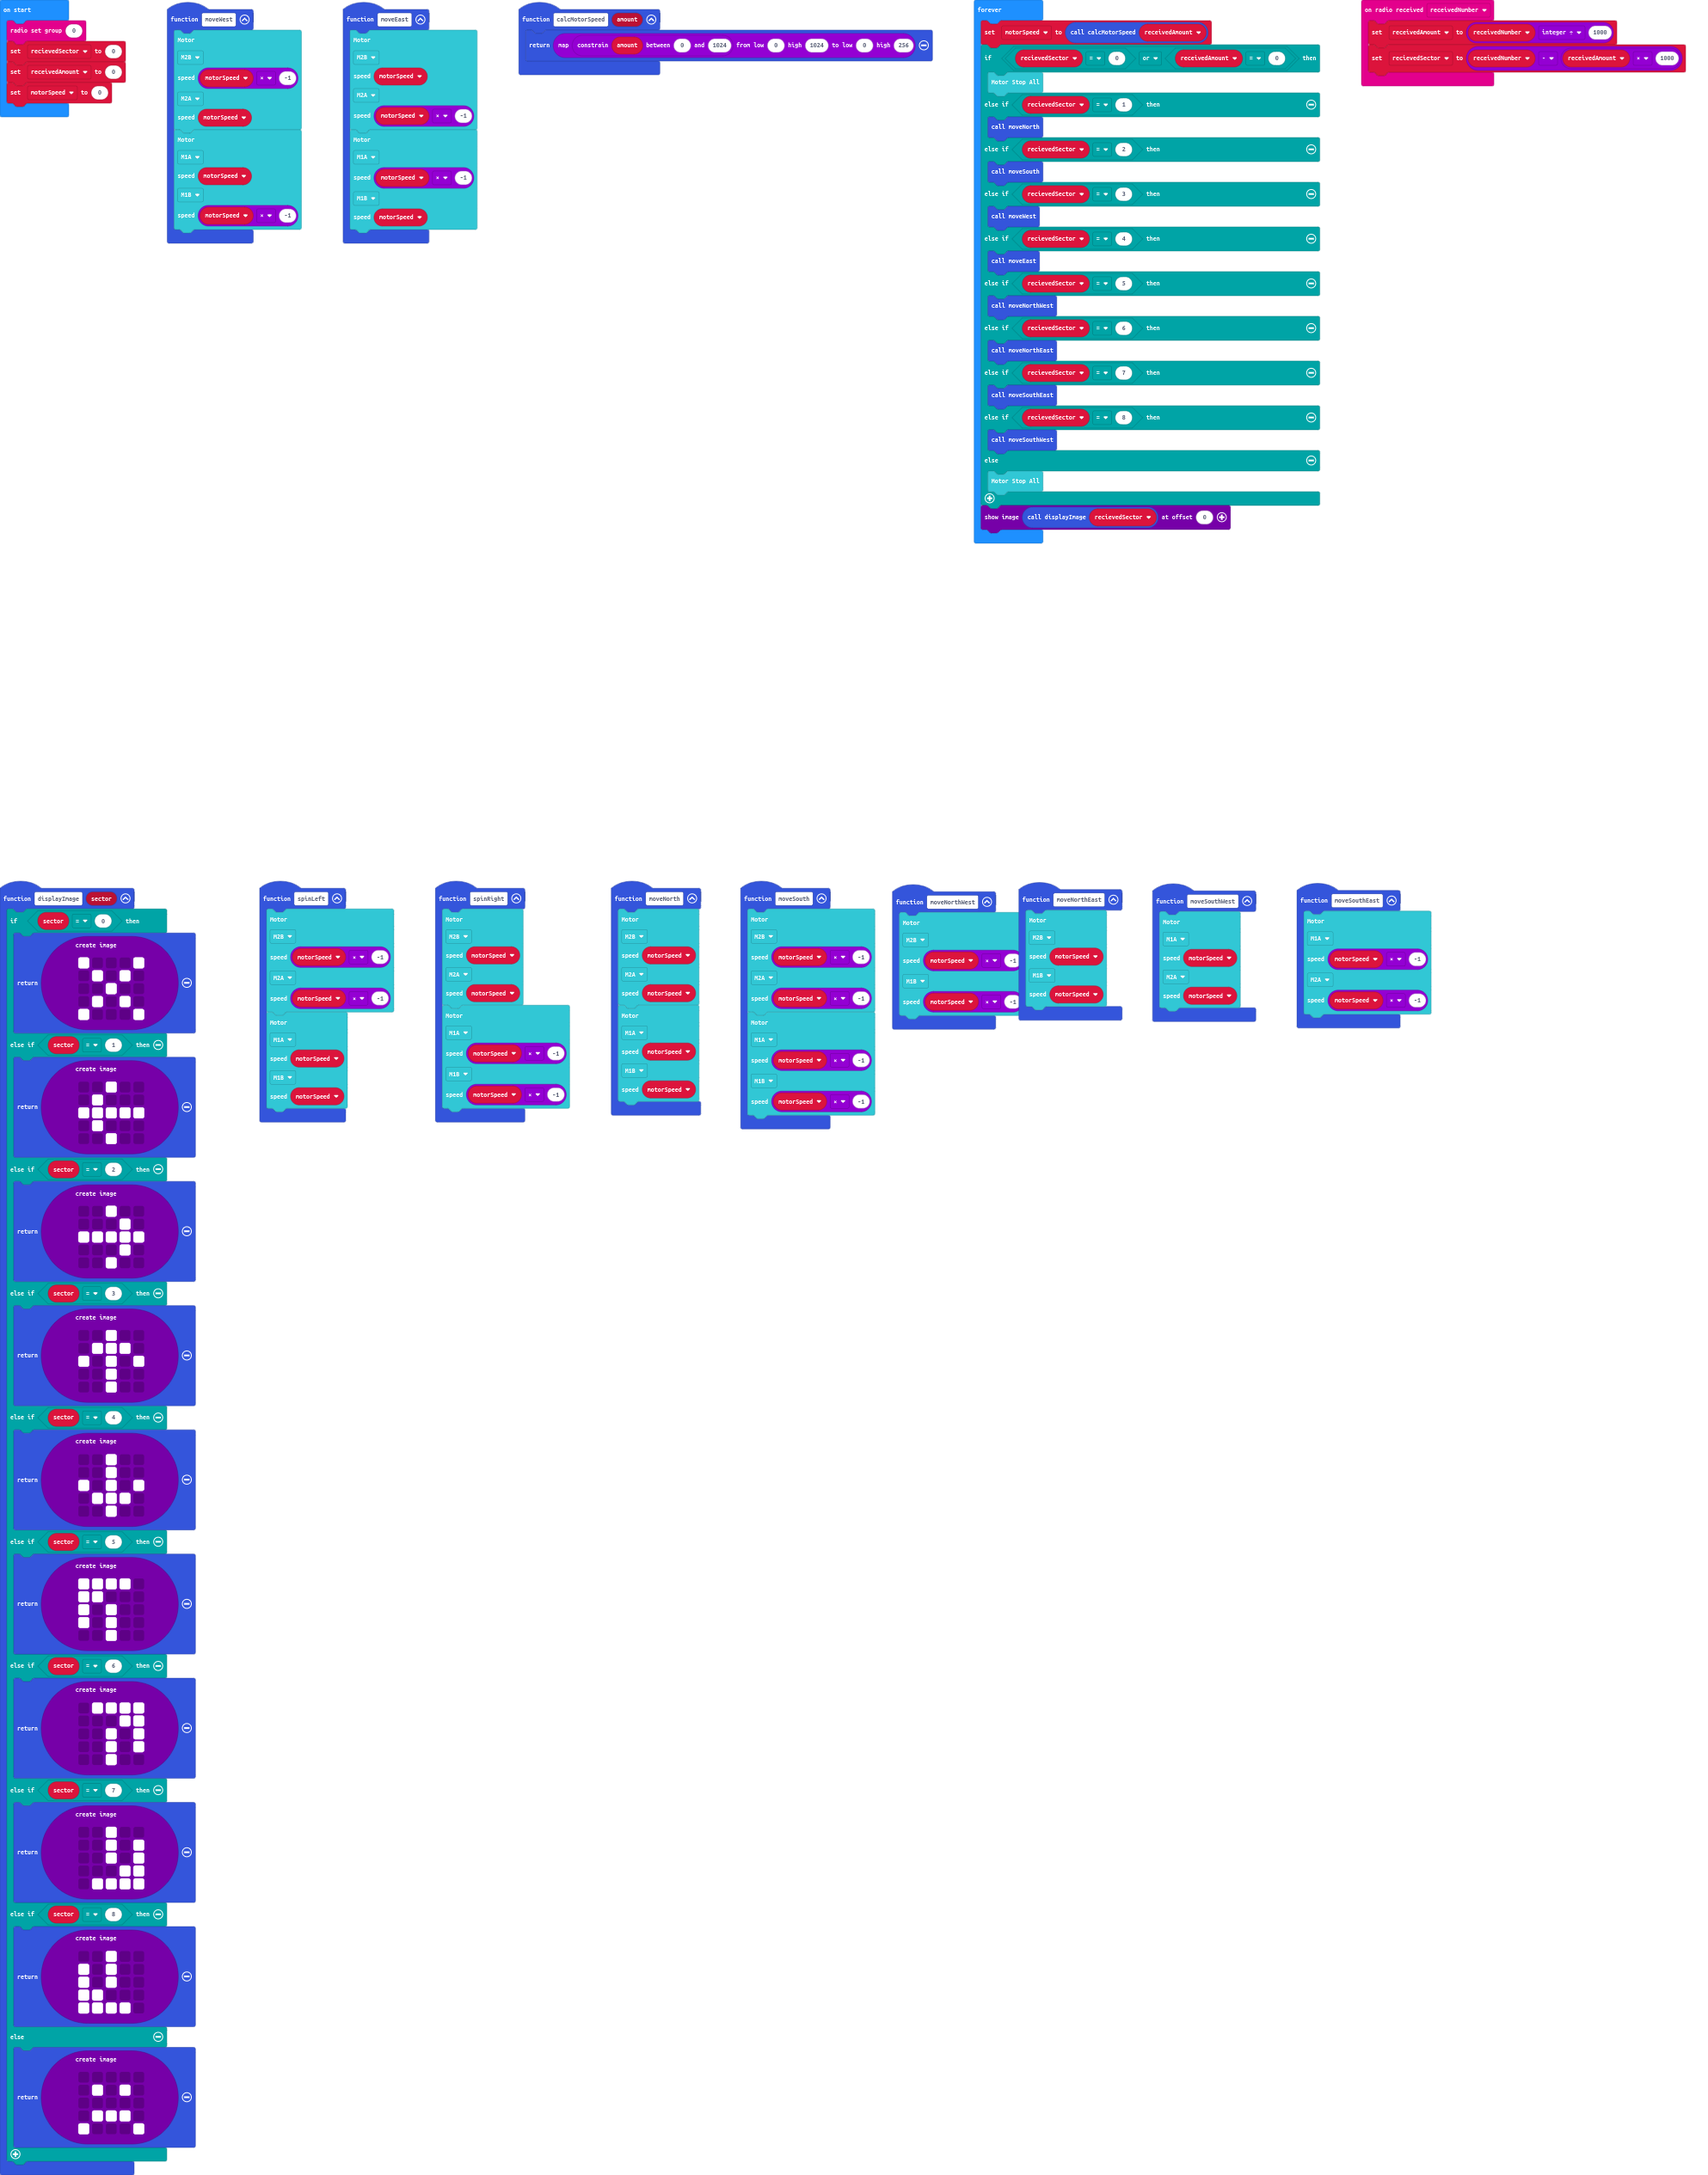
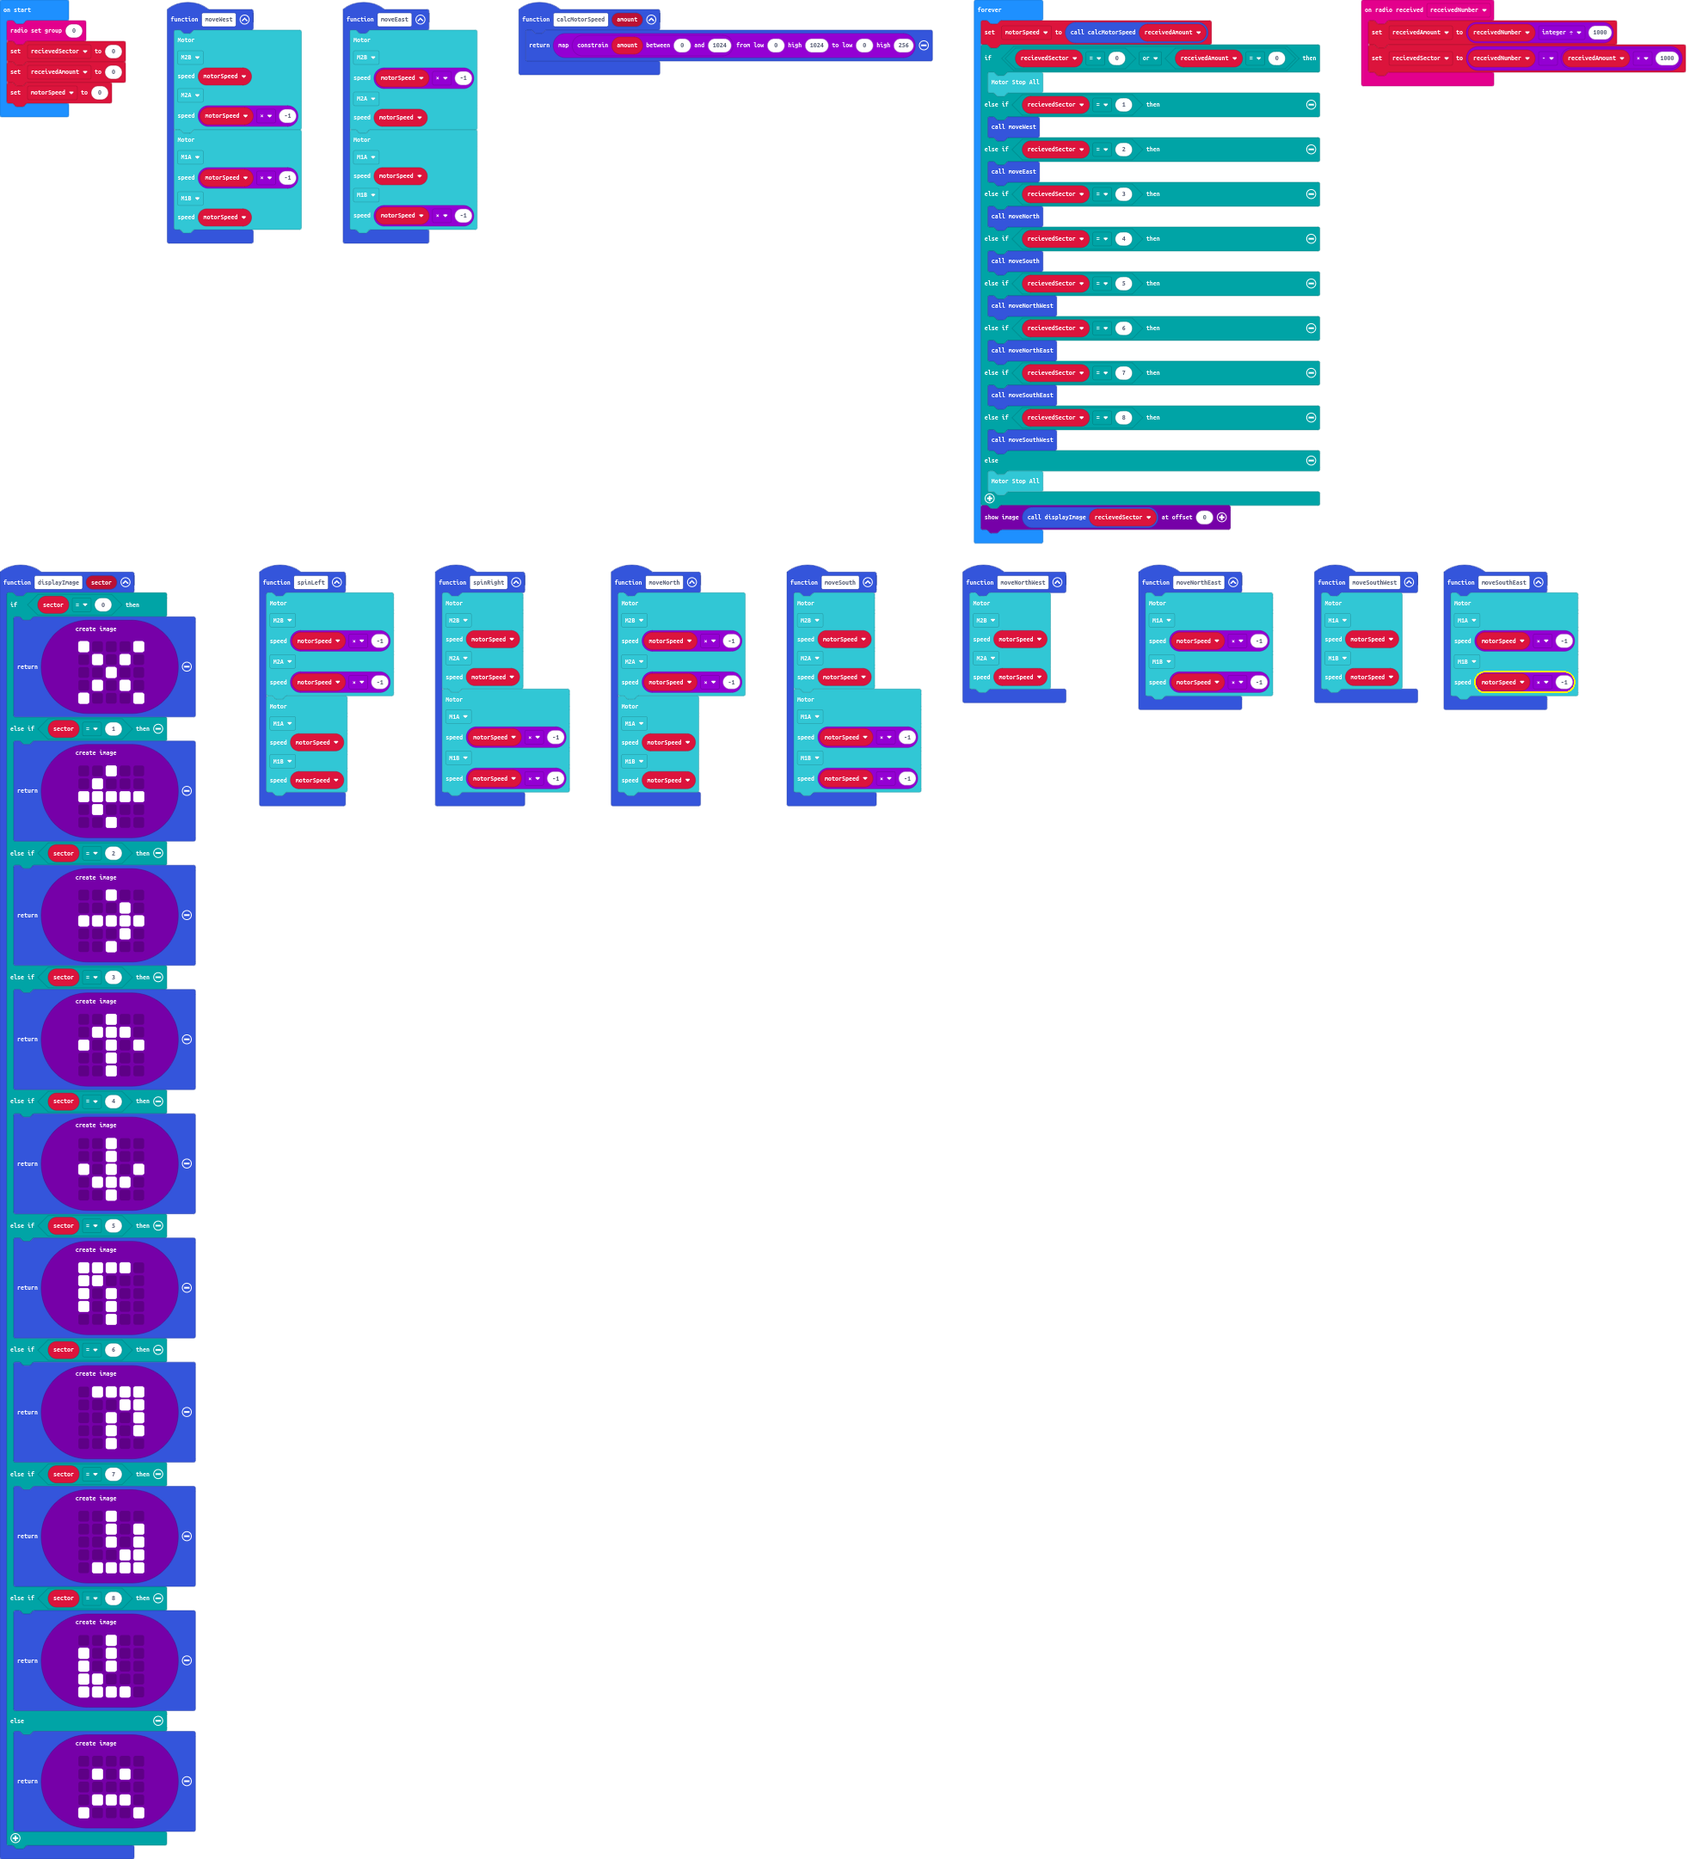
Try to fix Movement (NE,NW,SE,SW...)

Changed region(s): [[0.0, 0.0, 0.999, 1.0], [0.0, 0.0, 0.281, 0.1549]]

diff --git a/main.ts b/main.ts
@@ -2,7 +2,7 @@ function moveSouthEast () {
     robotbit.MotorRunDual(
     robotbit.Motors.M1A,
     motorSpeed * -1,
-    robotbit.Motors.M2A,
+    robotbit.Motors.M1B,
     motorSpeed * -1
     )
 }
@@ -13,15 +13,15 @@ radio.onReceivedNumberDeprecated(function (receivedNumber) {
 function moveEast () {
     robotbit.MotorRunDual(
     robotbit.Motors.M2B,
-    motorSpeed,
+    motorSpeed * -1,
     robotbit.Motors.M2A,
-    motorSpeed * -1
+    motorSpeed
     )
     robotbit.MotorRunDual(
     robotbit.Motors.M1A,
-    motorSpeed * -1,
+    motorSpeed,
     robotbit.Motors.M1B,
-    motorSpeed
+    motorSpeed * -1
     )
 }
 function spinLeft () {
@@ -41,23 +41,23 @@ function spinLeft () {
 function moveWest () {
     robotbit.MotorRunDual(
     robotbit.Motors.M2B,
-    motorSpeed * -1,
+    motorSpeed,
     robotbit.Motors.M2A,
-    motorSpeed
+    motorSpeed * -1
     )
     robotbit.MotorRunDual(
     robotbit.Motors.M1A,
-    motorSpeed,
+    motorSpeed * -1,
     robotbit.Motors.M1B,
-    motorSpeed * -1
+    motorSpeed
     )
 }
 function moveSouth () {
     robotbit.MotorRunDual(
     robotbit.Motors.M2B,
-    motorSpeed * -1,
+    motorSpeed,
     robotbit.Motors.M2A,
-    motorSpeed * -1
+    motorSpeed
     )
     robotbit.MotorRunDual(
     robotbit.Motors.M1A,
@@ -69,17 +69,17 @@ function moveSouth () {
 function moveNorthWest () {
     robotbit.MotorRunDual(
     robotbit.Motors.M2B,
-    motorSpeed * -1,
-    robotbit.Motors.M1B,
-    motorSpeed * -1
+    motorSpeed,
+    robotbit.Motors.M2A,
+    motorSpeed
     )
 }
 function moveNorth () {
     robotbit.MotorRunDual(
     robotbit.Motors.M2B,
-    motorSpeed,
+    motorSpeed * -1,
     robotbit.Motors.M2A,
-    motorSpeed
+    motorSpeed * -1
     )
     robotbit.MotorRunDual(
     robotbit.Motors.M1A,
@@ -107,17 +107,17 @@ function spinRight () {
 }
 function moveNorthEast () {
     robotbit.MotorRunDual(
-    robotbit.Motors.M2B,
-    motorSpeed,
+    robotbit.Motors.M1A,
+    motorSpeed * -1,
     robotbit.Motors.M1B,
-    motorSpeed
+    motorSpeed * -1
     )
 }
 function moveSouthWest () {
     robotbit.MotorRunDual(
     robotbit.Motors.M1A,
     motorSpeed,
-    robotbit.Motors.M2A,
+    robotbit.Motors.M1B,
     motorSpeed
     )
 }
@@ -216,13 +216,13 @@ basic.forever(function () {
     if (recievedSector == 0 || receivedAmount == 0) {
         robotbit.MotorStopAll()
     } else if (recievedSector == 1) {
-        moveNorth()
-    } else if (recievedSector == 2) {
-        moveSouth()
-    } else if (recievedSector == 3) {
         moveWest()
-    } else if (recievedSector == 4) {
+    } else if (recievedSector == 2) {
         moveEast()
+    } else if (recievedSector == 3) {
+        moveNorth()
+    } else if (recievedSector == 4) {
+        moveSouth()
     } else if (recievedSector == 5) {
         moveNorthWest()
     } else if (recievedSector == 6) {
